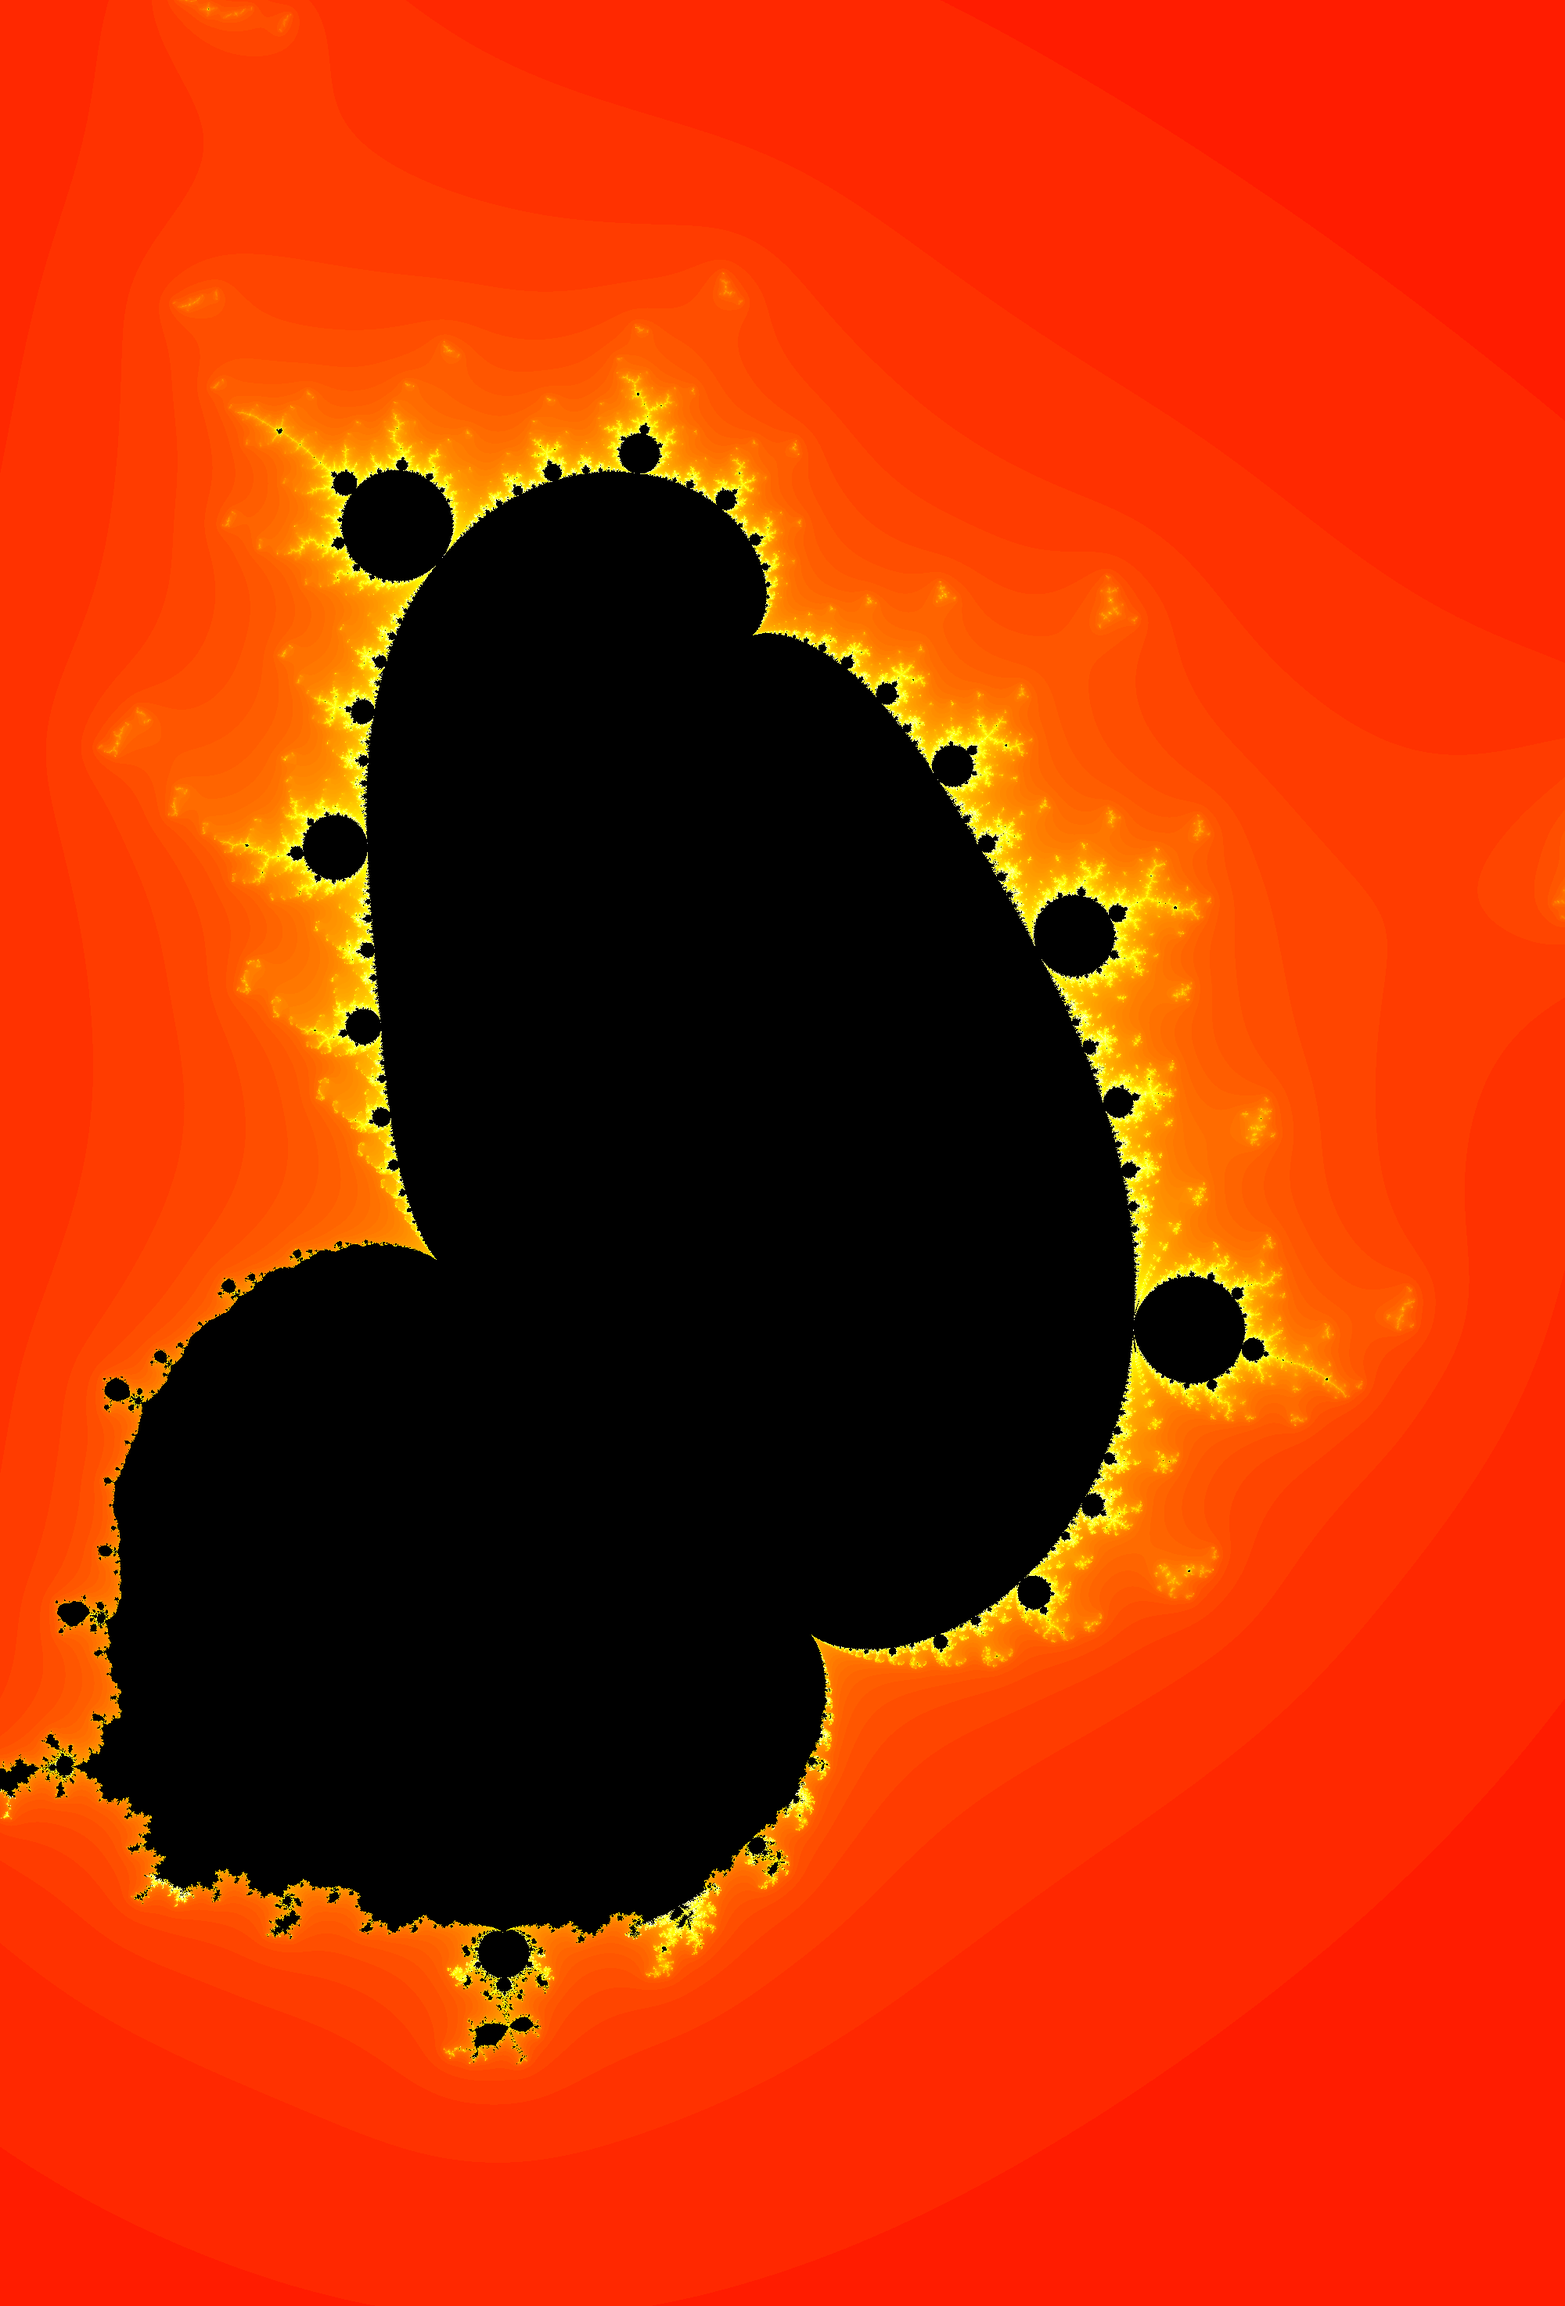
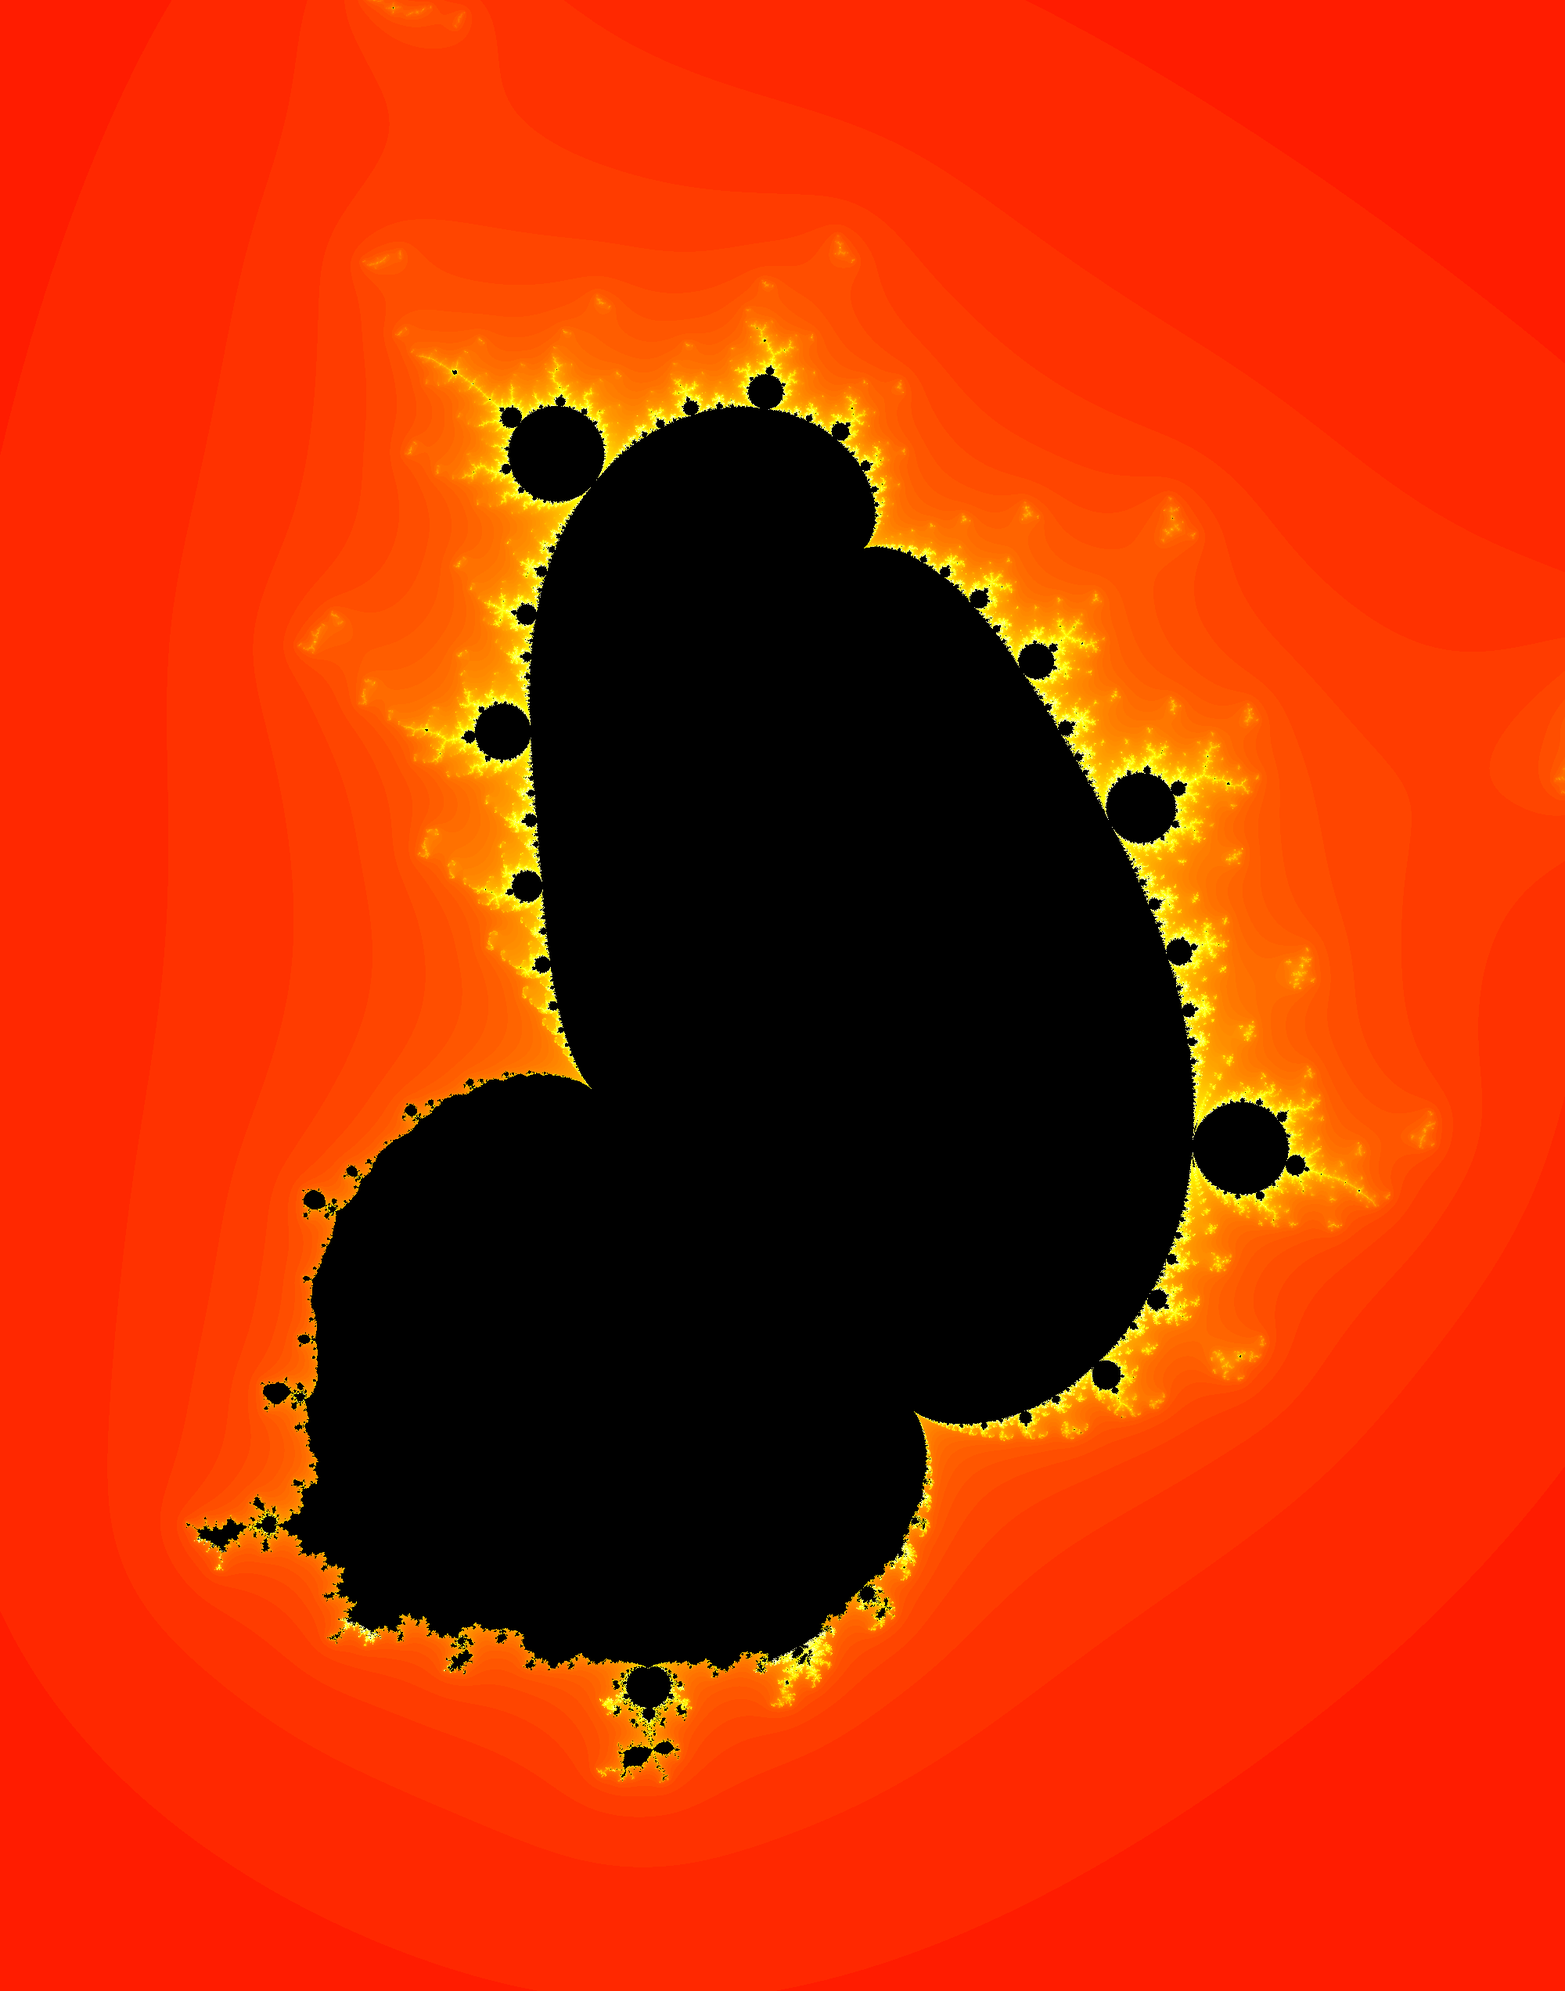
fixed alt

Changed region(s): [[0.0, 0.0931, 0.93, 0.9002], [0.093, 0.0, 0.186, 0.031], [0.248, 0.0, 0.31, 0.031]]

diff --git a/alternating.md b/alternating.md
@@ -53,7 +53,7 @@ take a closer look at the top right of the image x=[0.28,0.43] y=[0.7,0.85]
 <img src="https://raw.githubusercontent.com/EskoSalaka/Fractals/master/Images/rational_alt2.png" width="50%" height="50%"> 
 
 To demnostrate how switching the order affects the result, lets look at the same for i*Z^2 and Z^2 for 
-x=[-0.8,1.1] y=[-1.0,1.8]
+x=[-1.1,1.1] y=[-1.0,1.8]
 
 <img src="https://raw.githubusercontent.com/EskoSalaka/Fractals/master/Images/rational_alt_m5.png" width="50%" height="50%"> 
 
